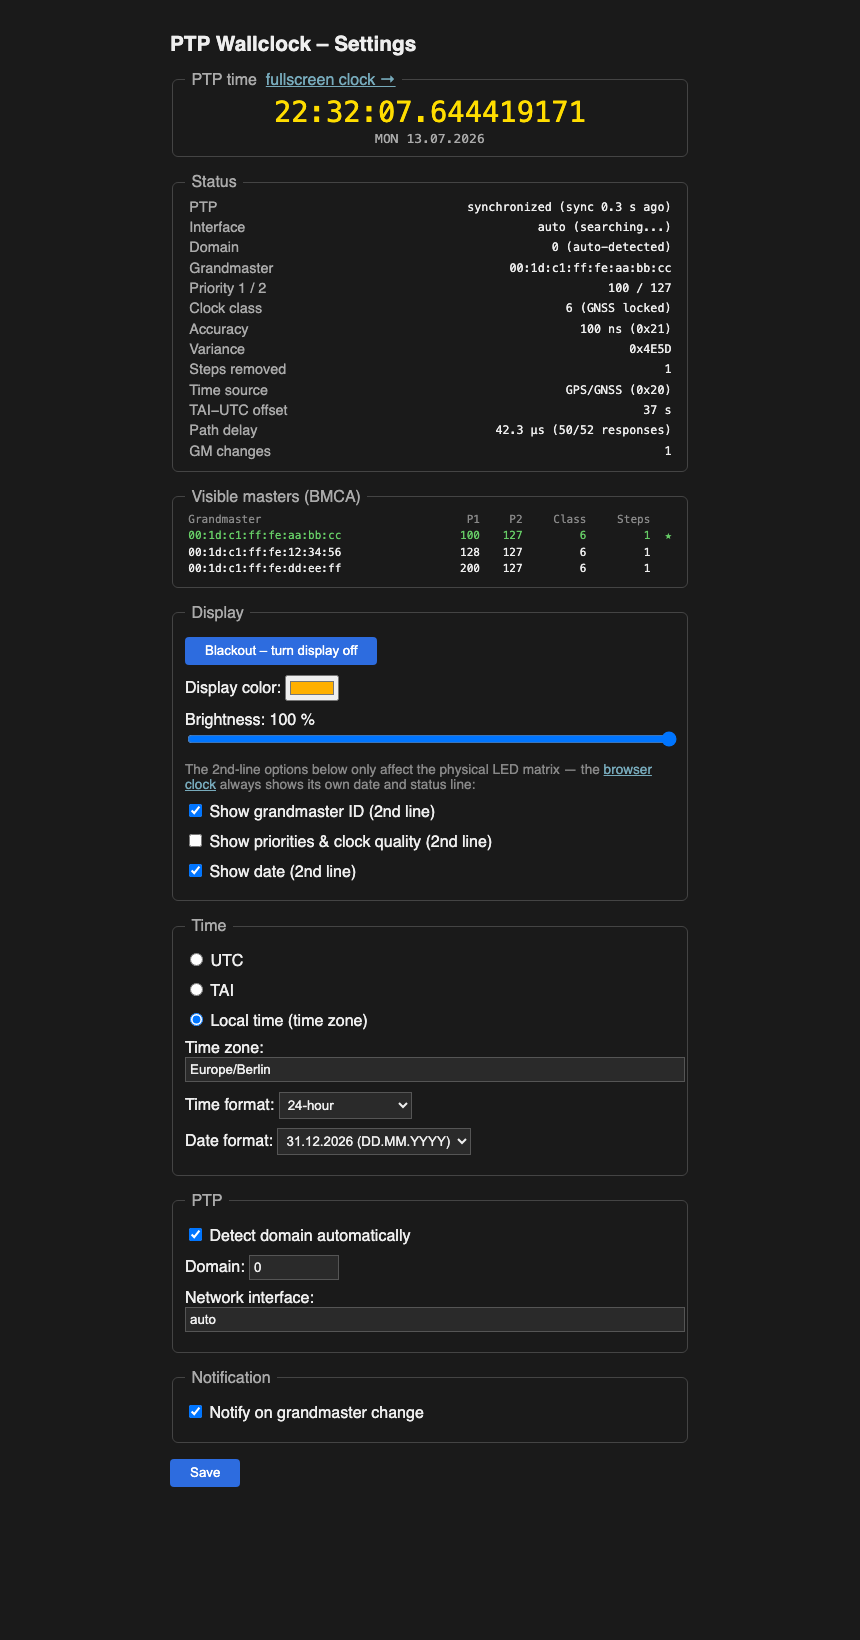
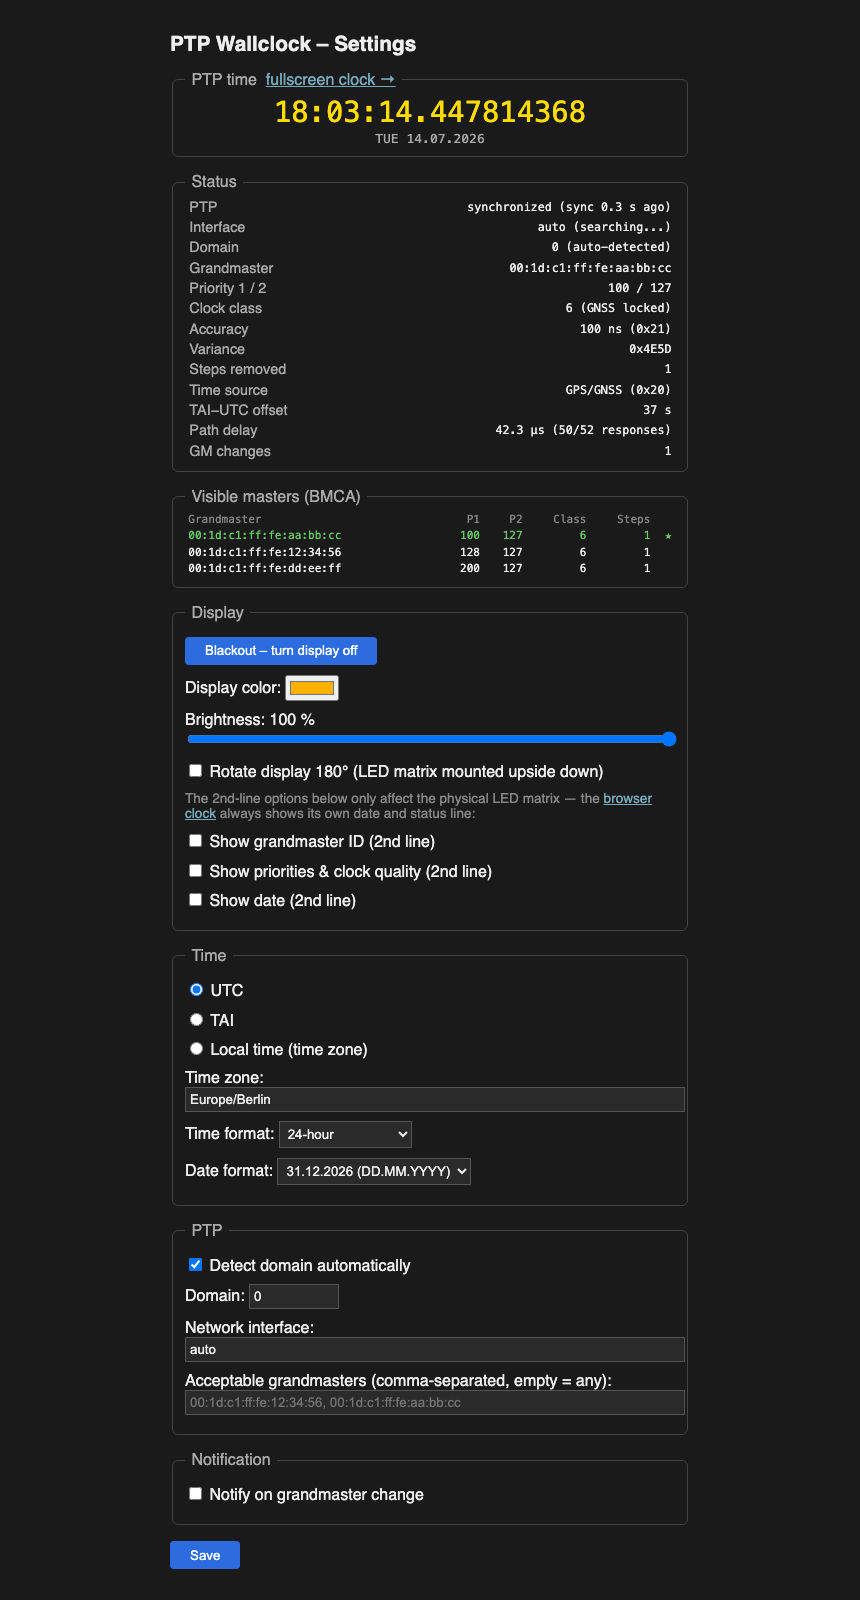
Rotate the LED display 180 degrees for upside-down mounted panels
New checkbox in the Display section. The library's Rotate pixel mapper
only applies at matrix creation, so the rotation happens at draw time
through a small proxy canvas instead — the setting takes effect
immediately, no restart needed. Settings screenshot refreshed (now also
shows the acceptable-grandmasters field).

diff --git a/ptp-clock.cpp b/ptp-clock.cpp
@@ -31,6 +31,27 @@
 
 #ifndef NO_MATRIX
 using namespace rgb_matrix;
+
+// Draws through to the real canvas, optionally rotated by 180 degrees —
+// for LED panels that are mounted upside down. A live web setting, so the
+// rotation happens here at draw time instead of in a pixel mapper, which
+// the library only applies at matrix-creation time.
+class FlipCanvas : public Canvas {
+public:
+    Canvas *inner = nullptr;
+    bool flip = false;
+    int width() const override { return inner->width(); }
+    int height() const override { return inner->height(); }
+    void SetPixel(int x, int y, uint8_t r, uint8_t g, uint8_t b) override {
+        if (flip)
+            inner->SetPixel(inner->width() - 1 - x,
+                            inner->height() - 1 - y, r, g, b);
+        else
+            inner->SetPixel(x, y, r, g, b);
+    }
+    void Clear() override { inner->Clear(); }
+    void Fill(uint8_t r, uint8_t g, uint8_t b) override { inner->Fill(r, g, b); }
+};
 #endif
 
 volatile bool interrupt_received = false;
@@ -47,6 +68,7 @@ struct Settings {
     uint8_t r = 255, g = 255, b = 0;      // display color
     int brightness = 100;                 // display brightness in percent
     bool blackout = false;                // display temporarily off
+    bool rotate180 = false;               // LED matrix mounted upside down
     bool show_gm = false;                 // show grandmaster ID on the matrix
     bool show_gm_details = false;         // show priorities / clock quality
     bool show_date = false;               // show the date on the matrix
@@ -199,6 +221,7 @@ static void save_settings_locked() {
       << (int)g_settings.b << "\n";
     f << "brightness=" << g_settings.brightness << "\n";
     f << "blackout=" << (g_settings.blackout ? 1 : 0) << "\n";
+    f << "rotate180=" << (g_settings.rotate180 ? 1 : 0) << "\n";
     f << "show_gm=" << (g_settings.show_gm ? 1 : 0) << "\n";
     f << "show_gm_details=" << (g_settings.show_gm_details ? 1 : 0) << "\n";
     f << "show_date=" << (g_settings.show_date ? 1 : 0) << "\n";
@@ -240,6 +263,8 @@ static void load_settings() {
                 g_settings.brightness = v;
         } else if (key == "blackout") {
             g_settings.blackout = (val == "1");
+        } else if (key == "rotate180") {
+            g_settings.rotate180 = (val == "1");
         } else if (key == "show_gm") {
             g_settings.show_gm = (val == "1");
         } else if (key == "show_gm_details") {
@@ -753,6 +778,7 @@ static std::string settings_json() {
     j << "{\"color\":\"" << color << "\","
       << "\"brightness\":" << g_settings.brightness << ","
       << "\"blackout\":" << (g_settings.blackout ? "true" : "false") << ","
+      << "\"rotate180\":" << (g_settings.rotate180 ? "true" : "false") << ","
       << "\"show_gm\":" << (g_settings.show_gm ? "true" : "false") << ","
       << "\"show_gm_details\":" << (g_settings.show_gm_details ? "true" : "false") << ","
       << "\"show_date\":" << (g_settings.show_date ? "true" : "false") << ","
@@ -953,6 +979,9 @@ static const char *kIndexHtml = R"HTML(<!DOCTYPE html>
 <label>Brightness: <span id="bval">100</span> %
  <input type="range" id="brightness" min="1" max="100" value="100">
 </label>
+<label>
+ <input type="checkbox" id="rotate180"> Rotate display 180&deg; (LED matrix mounted upside down)
+</label>
 <p class="hint">The 2nd-line options below only affect the physical LED
 matrix &mdash; the <a href="/clock">browser clock</a> always shows its own
 date and status line:</p>
@@ -1075,6 +1104,7 @@ async function loadSettings() {
   document.getElementById('color').value = s.color;
   document.getElementById('brightness').value = s.brightness;
   document.getElementById('bval').textContent = s.brightness;
+  document.getElementById('rotate180').checked = s.rotate180;
   blackout = s.blackout;
   renderBlackout();
   document.getElementById('show_gm').checked = s.show_gm;
@@ -1099,6 +1129,7 @@ document.getElementById('form').addEventListener('submit', async (e) => {
   const body = new URLSearchParams({
     color: document.getElementById('color').value,
     brightness: document.getElementById('brightness').value,
+    rotate180: document.getElementById('rotate180').checked ? 1 : 0,
     show_gm: document.getElementById('show_gm').checked ? 1 : 0,
     show_gm_details: document.getElementById('show_gm_details').checked ? 1 : 0,
     show_date: document.getElementById('show_date').checked ? 1 : 0,
@@ -1584,6 +1615,8 @@ static void handle_client(int fd) {
             }
             if (kv.count("blackout"))
                 g_settings.blackout = (kv["blackout"] == "1");
+            if (kv.count("rotate180"))
+                g_settings.rotate180 = (kv["rotate180"] == "1");
             if (kv.count("show_gm"))
                 g_settings.show_gm = (kv["show_gm"] == "1");
             if (kv.count("show_gm_details"))
@@ -1730,6 +1763,7 @@ int main(int argc, char **argv) {
     }
 
     FrameCanvas *offscreen = matrix->CreateFrameCanvas();
+    FlipCanvas flip_canvas;               // optional 180-degree rotation
 
     // --- Fonts ---
     Font font;
@@ -1971,6 +2005,8 @@ int main(int argc, char **argv) {
         }
 
         offscreen->SetBrightness((uint8_t)s.brightness);
+        flip_canvas.inner = offscreen;
+        flip_canvas.flip = s.rotate180;
 
         // Blackout, or no PTP reference (yet): show a black display
         if (s.blackout || !have_ptp_ref) {
@@ -2073,7 +2109,7 @@ int main(int argc, char **argv) {
         bool time_alert = !have_small_font &&
                           ((gm_recent_change && s.notify_gm_change) ||
                            gm_unaccepted);
-        DrawText(offscreen, font,
+        DrawText(&flip_canvas, font,
                  x_center, y_center,
                  time_alert ? Color(255, 0, 0) : Color(s.r, s.g, s.b),
                  nullptr, time_buffer, 1);
@@ -2085,7 +2121,7 @@ int main(int argc, char **argv) {
             Color c2 = line2_alert
                 ? Color(255, 0, 0)
                 : Color(s.r / 2, s.g / 2, s.b / 2);
-            DrawText(offscreen, small_font,
+            DrawText(&flip_canvas, small_font,
                      x2, matrix_options.rows - 2,
                      c2, nullptr, line2.c_str(), 1);
         }

diff --git a/README.md b/README.md
@@ -156,6 +156,8 @@ Settings:
 - **Brightness** — 1–100 % slider, applied immediately
 - **Blackout** — one-click switch to temporarily turn the display off
   (the clock keeps tracking PTP in the background)
+- **Rotate 180°** — for LED panels that are mounted upside down, applied
+  live without a restart
 - **Grandmaster ID** — show the current PTP grandmaster identity as a second
   line on the matrix
 - **Priorities & clock quality** — show priority 1/2, clock class and clock